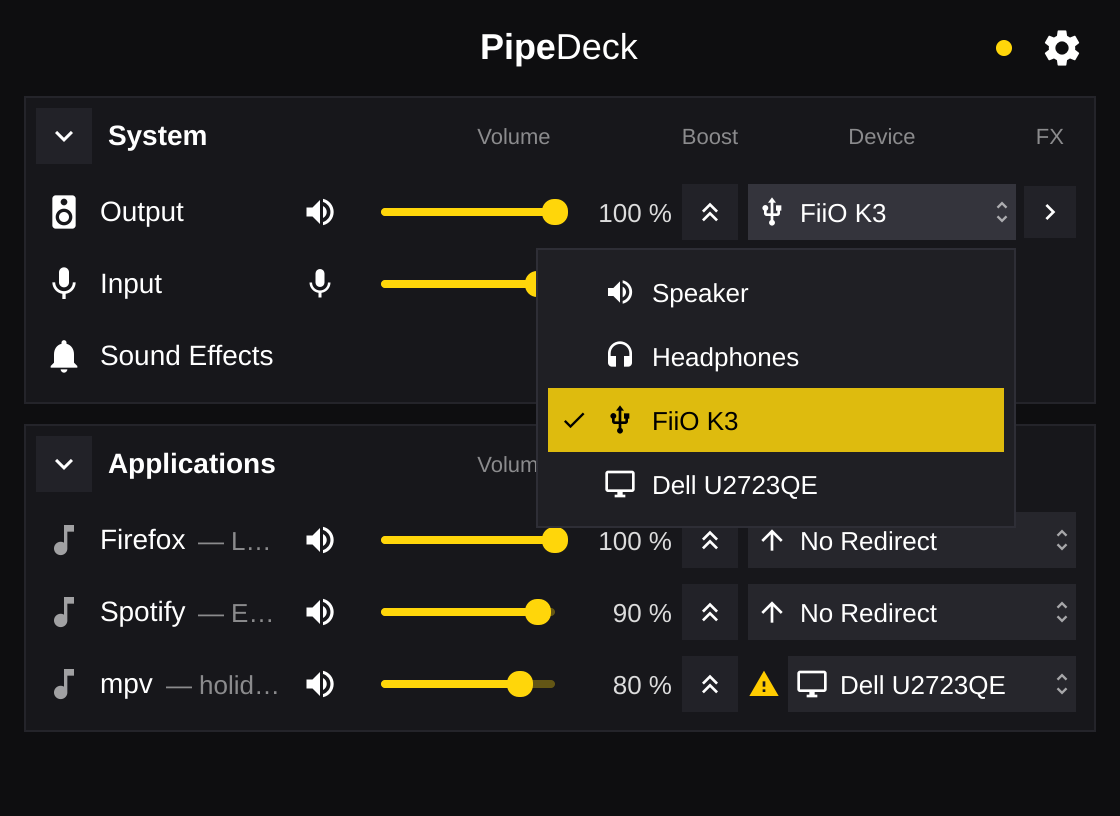
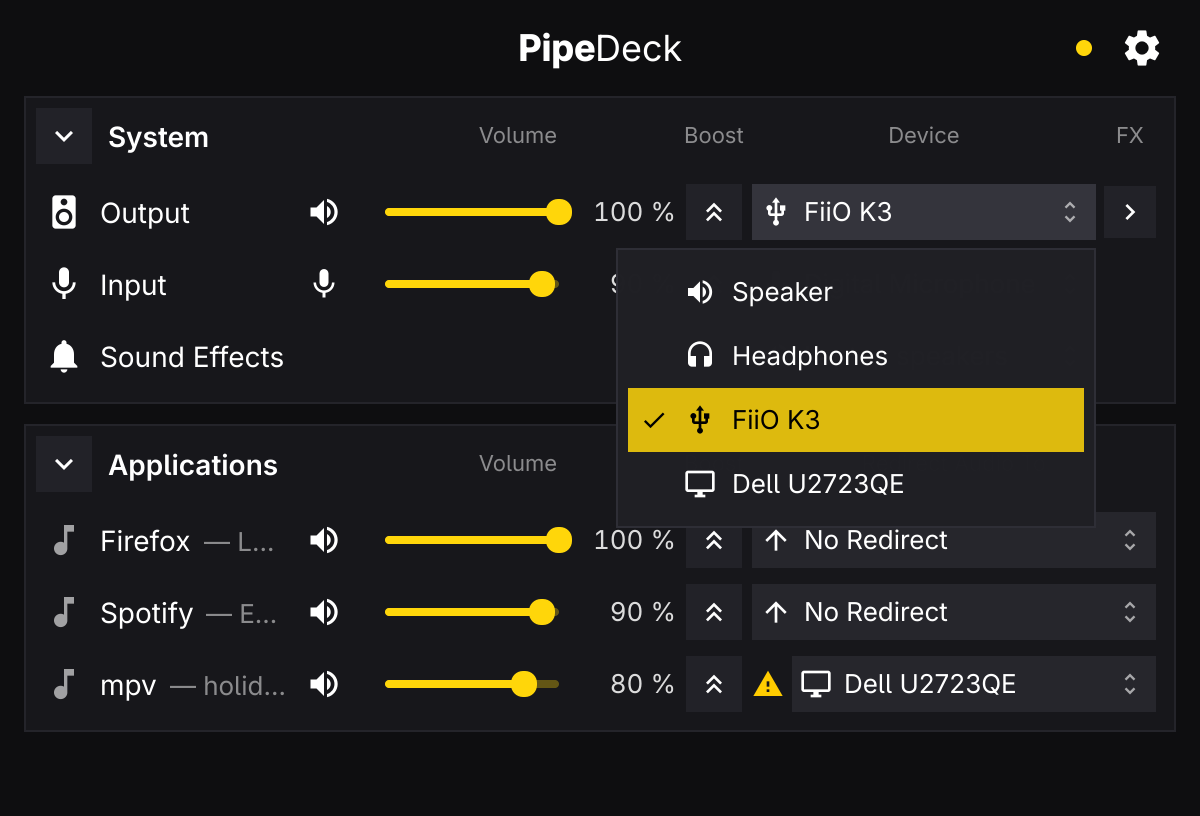
pipedeck-ui: 600 wide, device names fit unelided, minimum size
A compositor float rule had crushed the window to 420 and clipped the
FX column; real names (ALC257 Analog, Digital Microphone) elided.

diff --git a/ui/src/Main.qml b/ui/src/Main.qml
@@ -9,11 +9,13 @@ import "Columns.js" as Cols
 // footer; the gear swaps the blocks for the Settings page.
 ApplicationWindow {
     id: win
-    width: 560
+    width: 600
     // Hugs its content, from 300 px up to 720; past that the Applications
     // block scrolls.
     height: Math.max(minimumHeight, Math.min(720, Math.ceil(root.implicitHeight)))
-    minimumWidth: 520
+    // A float rule cannot crush the layout below this: every fixed column
+    // stays whole and the titles still show a few characters (SPEC-UI §4).
+    minimumWidth: 560
     minimumHeight: 300
     visible: true
     title: "PipeDeck"

diff --git a/ui/src/Columns.js b/ui/src/Columns.js
@@ -8,7 +8,10 @@ var mute = 28
 var slider = 112
 var percent = 42
 var boost = 30
-var device = 134    // the device / redirect popup button, with its warning
+// The device / redirect popup button, with its warning: wide enough for
+// "Digital Microphone" at 13 px in Adwaita Sans (116 px) beside the glyph and
+// the up/down mark (52 px of chrome), unelided.
+var device = 172
 var fx = 26
 var rowHeight = 36
 // "Volume" sits over the slider and percent; the mute cell before them is

diff --git a/ui/src/DeviceButton.qml b/ui/src/DeviceButton.qml
@@ -57,6 +57,7 @@ AbstractButton {
             verticalAlignment: Text.AlignVCenter
         }
         Glyph {
+            Layout.rightMargin: 6
             name: "unfold"
             size: 14
             opacity: 0.6

diff --git a/ui/tests/pipedeck-ui_tests.cpp b/ui/tests/pipedeck-ui_tests.cpp
@@ -1287,6 +1287,10 @@ private slots:
         QVERIFY(!w.find("device:output"));
         QVERIFY(!w.find("applications"));
         QVERIFY(w.window->height() >= 300 && w.window->height() <= 720);
+        // The floor a compositor size rule cannot push below (SPEC-UI §4).
+        QCOMPARE(w.window->width(), 600);
+        QCOMPARE(w.window->minimumWidth(), 560);
+        QCOMPARE(w.window->minimumHeight(), 300);
     }
 
     // Opus 5 in the window: a click on the handle of a slider drawn at its

diff --git a/SPEC-UI.md b/SPEC-UI.md
@@ -136,8 +136,11 @@ reference screenshots; this replaces the stacked list of every device of v1.0), 
 Omarchy's dark Material register with the theme accent where SoundSource uses green.
 Screenshots: `ui/docs/pipedeck-ui{,-devices,-fx}.png`.
 
-- **Geometry**: one `ApplicationWindow`, 560 px wide (SoundSource's proportion), minimum
-  520×300. The window **hugs its content**: its height follows the blocks, from 300 px up to
+- **Geometry**: one `ApplicationWindow`, 600 px wide, minimum 560×300 (set on the window, so
+  a compositor size rule cannot crush the fixed columns). The device / redirect column is
+  172 px: real names ("Digital Microphone", "ALC257 Analog", "Laptop speakers", "Follow
+  Output", "No Redirect") fit unelided at the default 13 px; app titles take what is left
+  (about 94 px), so a stream's media name is elided first and shown whole in the tooltip. The window **hugs its content**: its height follows the blocks, from 300 px up to
   720 px; past that the Applications list scrolls inside its block and nothing else moves.
   Rows are 36 px. Blocks are rounded panels a shade lighter than the window, radius
   `min(10, theme radius)`; buttons round to `min(height/2, theme radius)`, so Omarchy's
@@ -187,7 +190,7 @@ Screenshots: `ui/docs/pipedeck-ui{,-devices,-fx}.png`.
 
 ### 4.2 Row anatomy and the volume contract
 - Columns, left to right: glyph or app icon (20 px) · title (takes the rest) · mute (28) ·
-  slider (112) · percentage (42) · Boost (30) · device or redirect menu (134; Applications
+  slider (112) · percentage (42) · Boost (30) · device or redirect menu (172; Applications
   rows add the FX column's 30 to it) · FX (26). A row without a level (Sound Effects) gives
   its mute/slider/%/Boost cells to the title instead of drawing empty controls.
 - Slider → `SetVolume` coalesced to ≤20/s while dragging, final value on release; mute →

diff --git a/ui/README.md b/ui/README.md
@@ -70,11 +70,11 @@ right, the rule under it (Omarchy 4.5's Lua helpers, as in
 o.bind("SUPER + CTRL + SHIFT + A", "PipeDeck", "pipedeck-ui")
 
 -- Optional: floating, 12 px from the right edge, on every workspace. No size:
--- the window is 560 px wide and as tall as its content (300-720 px). Drop any
+-- the window is 600 px wide and as tall as its content (300-720 px). Drop any
 -- line you don't want.
 o.window("^pipedeck-ui$", {
   float = true,
-  move = { "(monitor_w-572)", 40 },
+  move = { "(monitor_w-612)", 40 },
   pin = true,
 })
 ```
